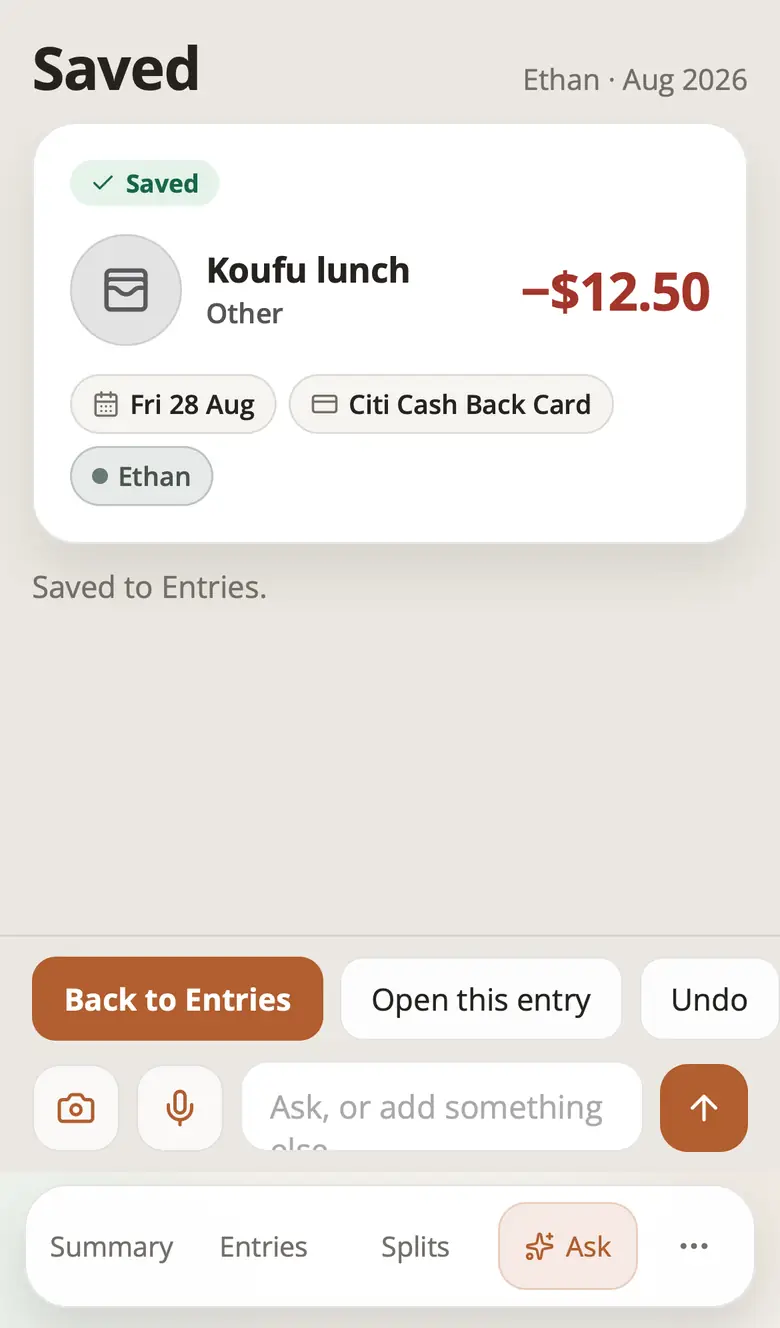
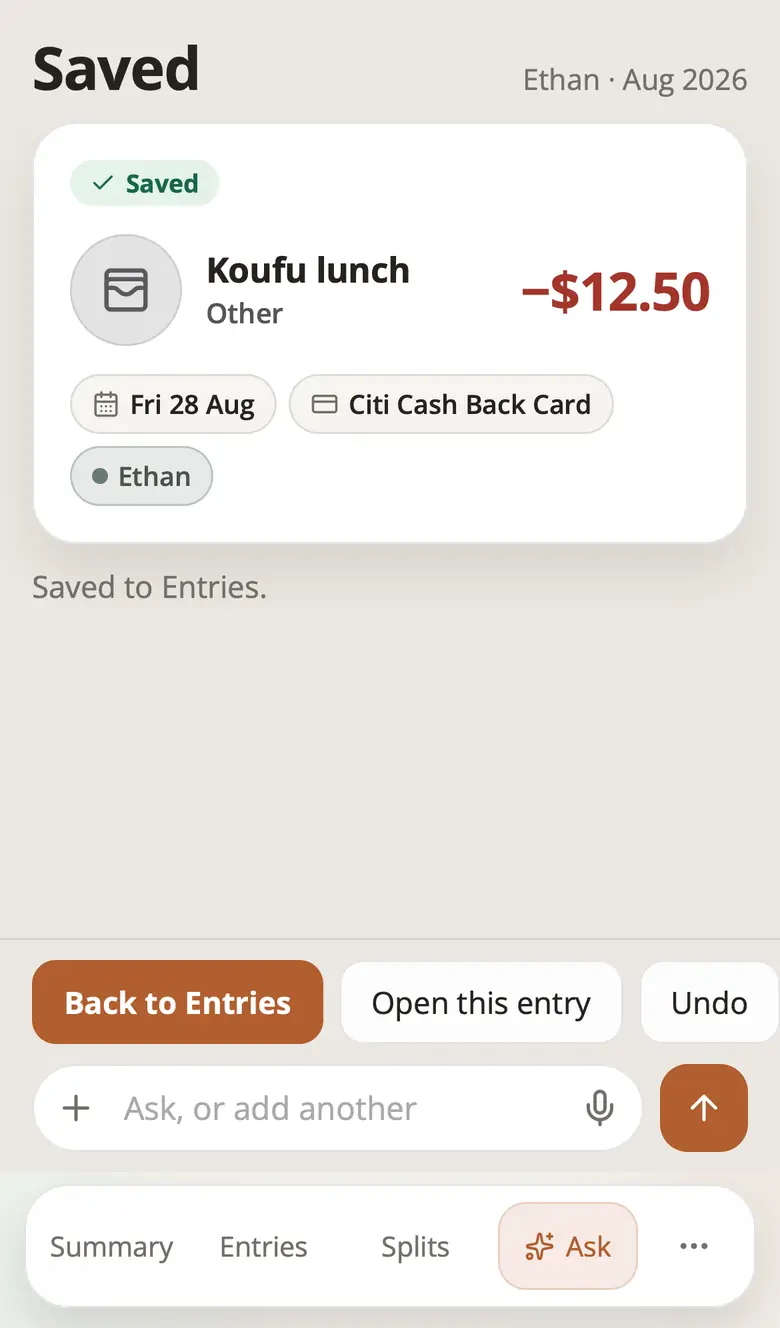
Describe the Ask composer's in-field + and mic and refresh the phone Ask screenshots
design.md gets a Composer section (one field with the + and mic glyphs,
44 px hit areas, three-line growth, the + menu and the final
placeholders); the flow doc, DOMAIN.md and both guides follow. The three
phone shots that show the composer were regenerated against an isolated
showcase stack.

diff --git a/design.md b/design.md
@@ -134,24 +134,45 @@ Layout, top to bottom:
   above what happened to it since.
 - Bottom stack above the tab bar: one horizontally scrolling row of chips
   (buttons; the main way on first and filled; a back chip in accent text),
-  then the composer: a camera button (pick or take a receipt photo), the
-  mic, the message field, and the send arrow. When a card is open and nothing is
-  typed the arrow becomes Save, disabled until the card is valid.
+  then the composer (below). When a card is open and nothing is typed the
+  send arrow becomes Save, disabled until the card is valid.
 
-### Composer mic
+### Composer
 
-The mic (`ask-voice.js`, flow in `docs/flows/ask-flow.md` "Voice input")
-sits between the camera and the message field, a 44 px icon button like the
-camera, always in the same place (not swapped in on focus, so it can be
-held without first opening the phone's keyboard). Hold to talk, or tap to
-start and tap to stop; the words fill the message field, which is read-only
-while listening, and the person sends. Listening: the button takes the send
-button's accent fill with an accent ring, which pulses only under
-`prefers-reduced-motion: no-preference`; the field's placeholder reads
-"Listening…". The label switches between "Start voice input" and "Stop
-voice input", and a polite live region announces the change. The mic is
-hidden when the browser has neither speech recognition nor the recorded
-fallback; failures are calm notes in the conversation.
+One rounded white field (`.ask-field`, 22 px radius, a 1 px inset outline)
+holds `[ + ] message [ mic ]`; Send (the accent arrow) or Save sits outside
+it and is the composer's only filled button. The + and the mic are plain
+20 px glyphs in muted ink with no border or fill, each in a 44 × 44 px hit
+area. The field is 44 px tall, grows with the message to three lines, then
+scrolls (`field-sizing: content`, `max-height: 3lh` plus padding); the
+glyphs stay on its bottom line. The field shows the accent focus ring when
+the message box has keyboard focus.
+
+Placeholders, each fitting one line at 375 px (`tests/e2e/ask-composer.spec.js`):
+"Ask, or paste a receipt" (chat), "Type or say it…" (a new card),
+"Anything to change?" (a filled card), "Ask, or add another" (saved),
+"Listening…" while the mic listens.
+
+- The + opens a small in-app popover above it (Radix Popover, as the "More
+  pages" menu uses): Take a photo (the camera picker), Choose a photo (the
+  photo picker) and Paste (the paste reader), each a 44 px row with an
+  accent icon. It opens focused on itself, not on an option, so a tap marks
+  nothing as chosen; Tab reaches the options and Escape returns to the +.
+  The Scan receipt and Paste chips stay in the chip row as the one-tap
+  suggestions.
+- The mic (`ask-voice.js`, flow in `docs/flows/ask-flow.md` "Voice input")
+  is always in the same place (not swapped in on focus, so it can be held
+  without first opening the phone's keyboard). Hold to talk, or tap to
+  start and tap to stop; the words fill the message box, which is read-only
+  while listening, and the person sends. Listening turns the glyph accent
+  with a subtle accent ring around it (a 10% accent disc with a 2 px ring),
+  which pulses only under `prefers-reduced-motion: no-preference`. The
+  label switches between "Start voice input" and "Stop voice input", and a
+  polite live region announces the change. The mic captures the pointer, so
+  a hold ends on release even when Save turns into the narrower Send arrow
+  and the field widens. It is hidden when the browser has neither speech
+  recognition nor the recorded fallback; failures are calm notes in the
+  conversation.
 
 On a phone the page is `position: fixed` above the tab bar (`ask-route.css`)
 with its own scrolling conversation; the shell's header bar is underneath

diff --git a/docs/user-guide.md b/docs/user-guide.md
@@ -432,7 +432,8 @@ computer it opens from the **+** button on Entries.
 - **Suggestions**: a row of buttons above the message box. Swipe it sideways
   for more.
 - **The message box**: type a sentence such as "Koufu lunch $12.50, Citi",
-  say it with the mic button, or use the camera button for a receipt photo.
+  say it with the mic inside the box, or use the **+** inside the box for a
+  receipt photo.
 
 When you are adding an entry, a **card** shows it as it will be saved: the
 category, what it was, the amount (red for spending, green for money in,
@@ -442,13 +443,15 @@ posted date, the owner and a note. Tap any of them to change it.
 
 ### What each control does
 
-- **Scan receipt** or the camera button: take or pick a photo of a receipt.
-  The app reads the shop, the total and the date into the card. The photo is
-  made smaller on your phone first and is not kept.
-- **Paste**: paste a copied receipt photo or sentence.
-- **The mic button**: tap and hold the mic and say what you bought, then
-  let go. Or tap it once to start and tap again to stop. While it listens
-  it turns orange. Your words appear in the message box; check them, change
+- **Scan receipt**, or **+** then **Take a photo** or **Choose a photo**:
+  take or pick a photo of a receipt. The app reads the shop, the total and
+  the date into the card. The photo is made smaller on your phone first and
+  is not kept.
+- **Paste** (a suggestion, or in the **+** menu): paste a copied receipt
+  photo or sentence.
+- **The mic** (at the right of the message box): tap and hold the mic and
+  say what you bought, then let go. Or tap it once to start and tap again
+  to stop. While it listens it turns orange with a ring around it. Your words appear in the message box; check them, change
   anything that's wrong, then tap the send arrow. Nothing is sent until you
   do. The first time, your phone asks to use the microphone. If the mic
   isn't there, your browser can't take voice input; type instead.

diff --git a/docs/flows/ask-flow.md b/docs/flows/ask-flow.md
@@ -109,6 +109,9 @@ checks them and taps Send, which then goes through the entry-draft reader
 like any typed sentence. Voice never sends anything by itself, and Send
 ends any listening first.
 
+- Place: the mic glyph sits at the right inside the message field (the +
+  at its left opens Take a photo, Choose a photo and Paste; design.md
+  "Composer").
 - Gesture: hold the mic to talk and let go to stop, or tap to start and tap
   again to stop; Enter or Space on the focused mic toggles it
   (`createPressGesture`). A press still waiting for microphone permission
@@ -181,6 +184,9 @@ Ask does not own:
 - After a save the card shows Saved and the chips offer the way back first.
 - Spoken words land in the message box and are sent only when the person
   taps Send; the mic is hidden when neither voice path is available.
+- The + inside the field opens an in-app menu (Take a photo, Choose a
+  photo, Paste); each glyph keeps a 44 × 44 px hit area and every
+  placeholder fits one line at 375 px.
 - No system alert, confirm or prompt anywhere.
 
 ## Persisted / Query Contract
@@ -200,7 +206,7 @@ Current status: aligned with tests (`tests/ask-card-model.test.mjs`,
 `tests/ask-api.test.mjs`, `tests/ask-chips.test.mjs`,
 `tests/ask-voice.test.mjs`, `tests/transcribe-route.test.mjs`,
 `tests/shortcut-gateway.test.mjs`, `tests/e2e/ask-page.spec.js`,
-`tests/e2e/ask-voice.spec.js`) and runtime behaviour on a phone.
+`tests/e2e/ask-voice.spec.js`, `tests/e2e/ask-composer.spec.js`) and runtime behaviour on a phone.
 
 ## Known Exceptions / Watch Areas
 

diff --git a/docs/developer-guide.md b/docs/developer-guide.md
@@ -1673,6 +1673,12 @@ its thumbnail, and read on the device by the app's own Tesseract worker
 when the reader is unavailable. The browser tests stub both readers
 (`tests/e2e/ask-page.spec.js`).
 
+The composer is one field holding a + glyph (a Radix popover with Take a
+photo, Choose a photo and Paste over the existing file inputs and paste
+reader) and the mic glyph, with Send or Save outside it;
+`tests/e2e/ask-composer.spec.js` measures the 44 px hit areas, the
+three-line growth and that every placeholder fits at 375 px.
+
 The composer's mic (`src/client/ask-voice.js`) is a small state machine
 (`createVoiceController`: idle, starting, listening, transcribing, hidden)
 with a hold-or-tap gesture (`createPressGesture`), unit tested in

diff --git a/DOMAIN.md b/DOMAIN.md
@@ -799,8 +799,8 @@ Canonical terms:
 - `since you last looked`: the Summary check-in's headline for the view,
   read from data already loaded; never a fetch or AI call on open
 - `chip row`: the one row of suggestion buttons above the composer
-- `composer`: the message field with its photo, mic and send (or Save)
-  buttons
+- `composer`: the message field, holding a `+` (take or choose a photo,
+  or paste) and the mic, with the send (or Save) button beside it
 - `voice input`: words spoken through the composer's mic, put in the
   message field for the person to check and send; never sent by itself.
   The browser's own speech recognition first; a `voice clip` (at most 30 s,
